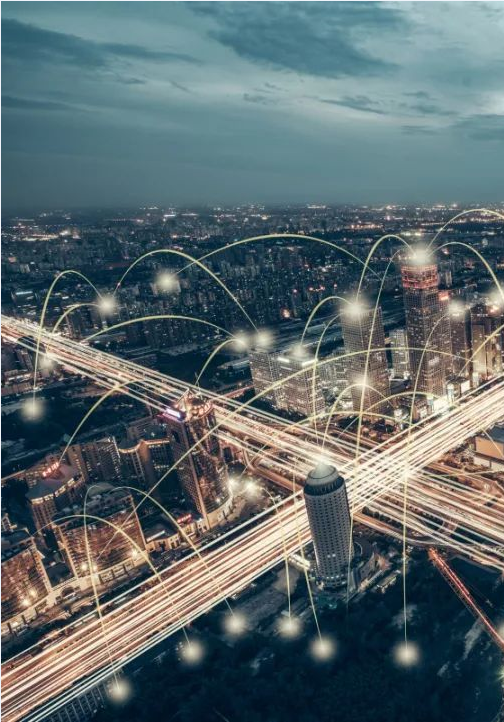
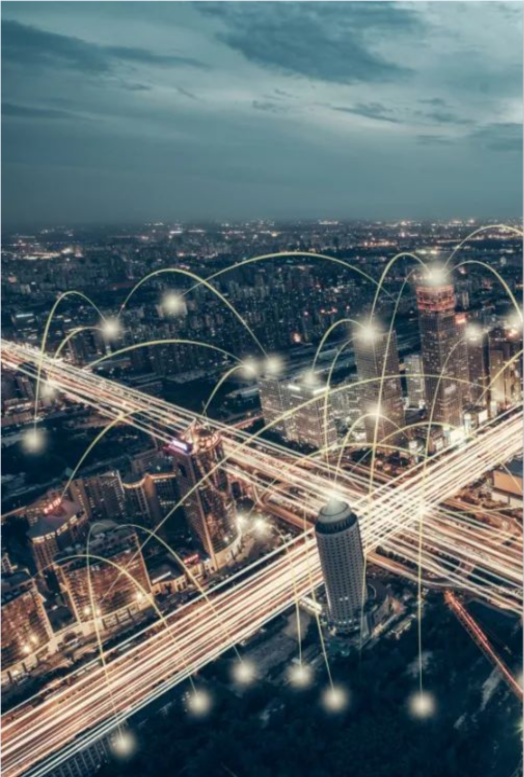
为关于页面的图片添加阴影

diff --git a/LeYun/View/Dlg/DevelopmentTeamDlg.xaml b/LeYun/View/Dlg/DevelopmentTeamDlg.xaml
@@ -7,46 +7,6 @@
         mc:Ignorable="d"
         Title="开发团队" Height="400" Width="600" WindowStartupLocation="CenterScreen">
     <Grid Margin="10">
-        <!--<StackPanel>
-            <TextBlock Style="{StaticResource CenterAlignTextBlock}" Text="项目地址：" HorizontalAlignment="Left"/>
-            <TextBlock Text="https://github.com/byx2000/LeYun" Margin="20 10 0 0"/>
-            <TextBlock Style="{StaticResource CenterAlignTextBlock}" Text="联系方式：" HorizontalAlignment="Left" Margin="0 30 0 0"/>
-            <Grid Margin="20 10 0 0">
-                <Grid.RowDefinitions>
-                    <RowDefinition Height="Auto"/>
-                    <RowDefinition Height="Auto"/>
-                    <RowDefinition Height="Auto"/>
-                </Grid.RowDefinitions>
-                <Grid.ColumnDefinitions>
-                    <ColumnDefinition Width="Auto"/>
-                    <ColumnDefinition Width="Auto"/>
-                </Grid.ColumnDefinitions>
-                <TextBlock Grid.Row="0" Grid.Column="0" Text="电话：" HorizontalAlignment="Right" Margin="0 5 0 0"/>
-                <TextBlock Grid.Row="1" Grid.Column="0" Text="邮箱：" HorizontalAlignment="Right" Margin="0 5 0 0"/>
-                <TextBlock Grid.Row="2" Grid.Column="0" Text="QQ：" HorizontalAlignment="Right" Margin="0 5 0 0"/>
-
-                <TextBlock Grid.Row="0" Grid.Column="1" Text="18023699313" Margin="0 5 0 0"/>
-                <TextBlock Grid.Row="1" Grid.Column="1" Text="18023699313@163.com" Margin="0 5 0 0"/>
-                <TextBlock Grid.Row="2" Grid.Column="1" Text="416982860" Margin="0 5 0 0"/>
-            </Grid>
-            
-        </StackPanel>-->
-
-        <!--<StackPanel>
-            <StackPanel Orientation="Horizontal">
-                <TextBlock Style="{StaticResource IconTextBlock}" Text="&#xf09b;" FontSize="30"/>
-                <TextBlock Style="{StaticResource CenterAlignTextBlock}" Text="项目地址：https://github.com/byx2000/LeYun" FontSize="18" Margin="10 0 0 0"/>
-            </StackPanel>
-            <StackPanel Orientation="Horizontal" Margin="0 10 0 0">
-                <TextBlock Style="{StaticResource IconTextBlock}" Text="&#xf0e0;" FontSize="30" Foreground="#dc4f00"/>
-                <TextBlock Style="{StaticResource CenterAlignTextBlock}" Text="邮箱：18023699313@163.com" FontSize="18" Margin="10 0 0 0"/>
-            </StackPanel>
-            <StackPanel Orientation="Horizontal" Margin="0 10 0 0">
-                <TextBlock Style="{StaticResource IconTextBlock}" Text="&#xf1d6;" FontSize="30" Foreground="#269ce0"/>
-                <TextBlock Style="{StaticResource CenterAlignTextBlock}" Text="QQ：416982860" FontSize="18" Margin="10 0 0 0"/>
-            </StackPanel>
-        </StackPanel>-->
-
         <Grid VerticalAlignment="Center" HorizontalAlignment="Center">
             <Grid.RowDefinitions>
                 <RowDefinition Height="Auto"/>

diff --git a/LeYun/View/AboutPage.xaml b/LeYun/View/AboutPage.xaml
@@ -42,7 +42,11 @@
                 <ColumnDefinition />
                 <ColumnDefinition />
             </Grid.ColumnDefinitions>
-            <Image Grid.Column="0" Source="pack://application:,,,/Img/p1.png" VerticalAlignment="Top" Margin="0 20 0 0" Stretch="Fill"/>
+            <Image Grid.Column="0" Source="pack://application:,,,/Img/p1.png" VerticalAlignment="Top" Margin="0 20 0 0" Stretch="Fill">
+                <Image.Effect>
+                    <DropShadowEffect BlurRadius="10" ShadowDepth="0" Opacity="0.5"/>
+                </Image.Effect>
+            </Image>
             <Grid Grid.Column="1">
                 <Grid.RowDefinitions>
                     <RowDefinition />
@@ -55,7 +59,11 @@
                 <TextBlock Grid.Row="1" TextWrapping="Wrap" Margin="20 30 50 0" TextAlignment="Justify" FontSize="18" FontFamily="Monotype Corsiva"
                            Text="Founded in Jaunary 2020, zero ferry express company is a high-tech company based on cloud computing and big data to develop modern logistics and distribution route optimization. The company is committed to developing a visual VRP solver desktop program(LeYun), which allows users to set up relevant data and information, and ultimately, the solution is displayed to users in graphics, documents and other forms, with practicability, advanced nature and high reliability."/>
             </Grid>
-            <Image Grid.Column="2" Source="pack://application:,,,/Img/p2.png" VerticalAlignment="Bottom" Margin="0 20 0 0" Stretch="Fill"/>
+            <Image Grid.Column="2" Source="pack://application:,,,/Img/p2.png" VerticalAlignment="Bottom" Margin="0 20 0 0" Stretch="Fill">
+                <Image.Effect>
+                    <DropShadowEffect BlurRadius="10" ShadowDepth="0" Opacity="0.5"/>
+                </Image.Effect>
+            </Image>
         </Grid>
     </Grid>
     
